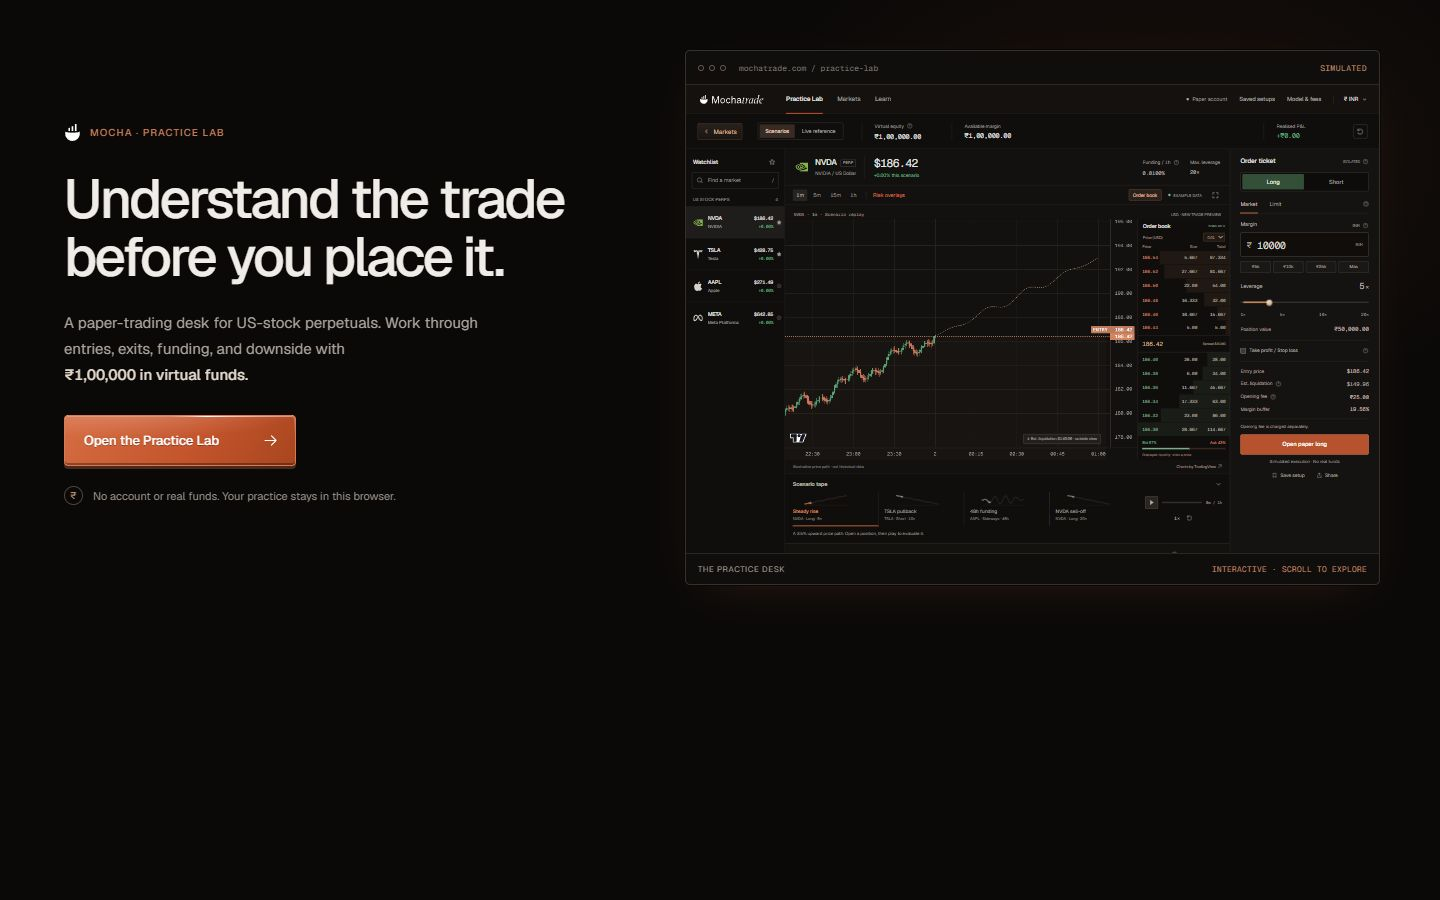
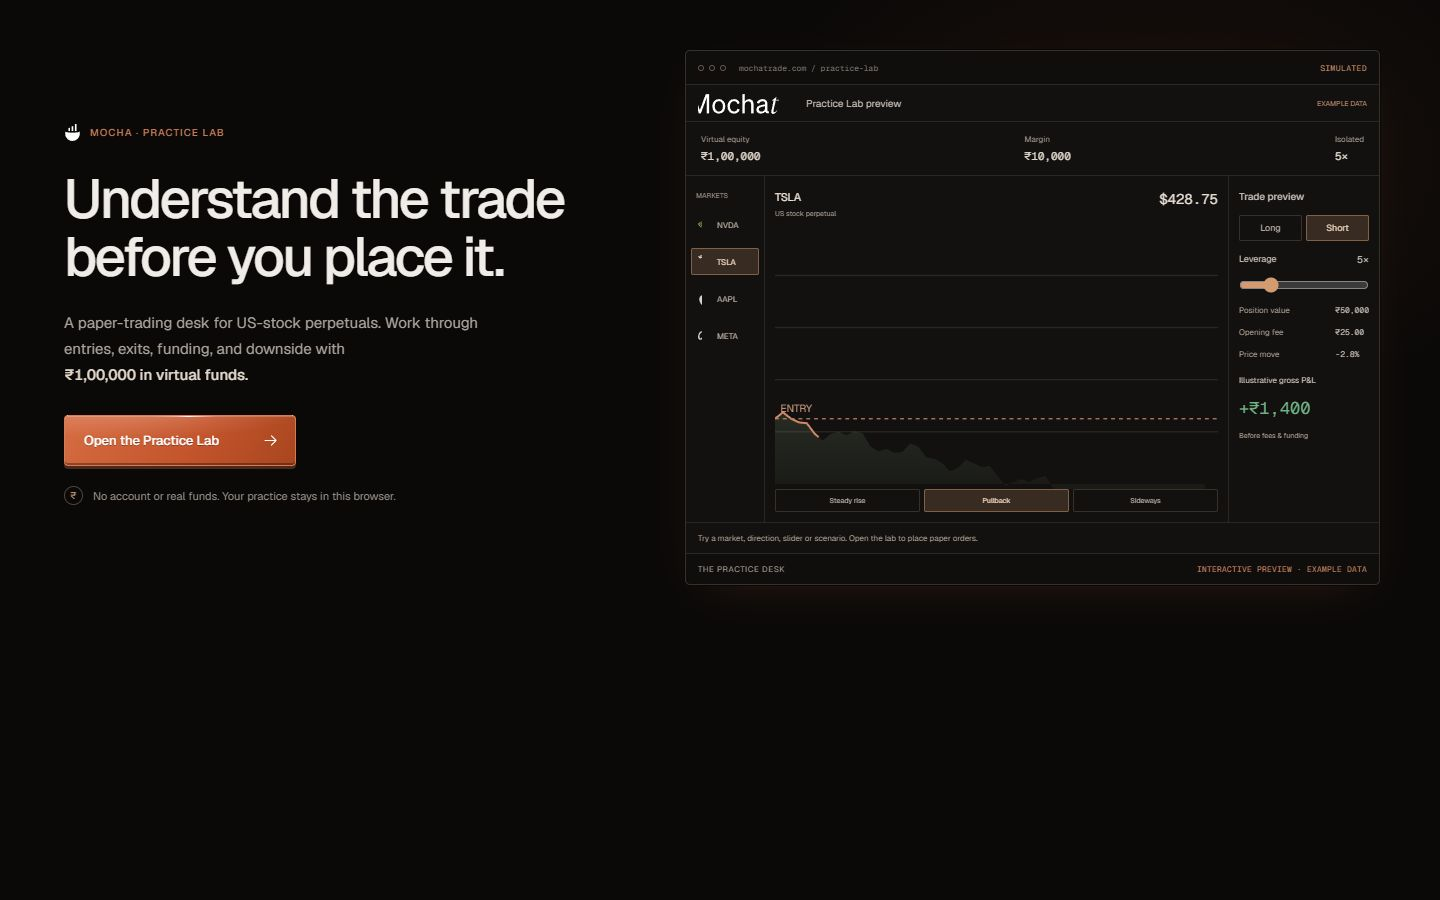
Replace embedded app with focused terminal preview

diff --git a/src/landing.css b/src/landing.css
@@ -218,15 +218,4 @@
   .welcome-launch svg { transition: none; }
 }
 
-.interactive-preview { padding:24px; height:100%; background:#13110f; }
-.preview-market {display:flex;gap:10px;align-items:center;font-size:16px}.preview-market img{width:24px;height:24px}.preview-market span{margin-left:auto;font-size:9px;color:#a59b91}.preview-quote{font:25px "Geist Mono";margin-top:16px}.preview-quote small{font-size:11px;color:#86b797}.interactive-preview>svg{width:100%;height:52%;margin:12px 0}.preview-price-path{stroke-dasharray:700;animation:preview-chart 7s linear infinite}.preview-trade{display:flex;gap:16px;align-items:center}.preview-trade .side-toggle{display:flex;gap:8px}.preview-trade .side-toggle button{padding:9px 22px;border-radius:3px}.preview-trade>.primary{margin-left:auto}.preview-feedback{color:#aaa096;font-size:10px;margin-top:15px}@keyframes preview-chart{from{stroke-dashoffset:700}to{stroke-dashoffset:0}}@media(prefers-reduced-motion:reduce){.preview-price-path{animation:none}}
-
-.terminal-preview-frame { position:absolute;left:0;top:0;border:0;transform-origin:top left;background:#0b0908; }
-.embedded-terminal { scrollbar-width:none; }
-.embedded-terminal::-webkit-scrollbar,.embedded-terminal *::-webkit-scrollbar { display:none; }
-.embedded-terminal button,.embedded-terminal button::before,.embedded-terminal button::after { animation:none!important;transition:none!important;transform:none!important;text-shadow:none!important;box-shadow:none!important; }
-.embedded-terminal button::before,.embedded-terminal button::after { content:none!important; }
-.embedded-terminal .primary { background:#b6532e!important;border:1px solid #c87954; }
-.embedded-terminal .side-toggle .long-active { background:#344f38!important; }
-.embedded-terminal .side-toggle .short-active { background:#633c30!important; }
-.embedded-terminal .mode-switch button.active {background:#382b23!important;}
+.mini-terminal{height:100%;display:flex;flex-direction:column;background:#13110f;color:#c7bfb7;font-size:10px}.mini-heading{height:37px;display:flex;align-items:center;gap:18px;padding:0 12px;border-bottom:1px solid #2c2723}.mini-heading img{width:90px}.mini-heading small{margin-left:auto;font-size:7px;color:#b48769}.mini-balance{display:flex;justify-content:space-between;padding:12px 15px;border-bottom:1px solid #2c2723;color:#9f958b;font-size:8px}.mini-balance b{display:block;color:#e1d7cd;font:11px 'Geist Mono';margin-top:5px}.mini-workspace{display:grid;grid-template-columns:79px minmax(0,1fr) 151px;flex:1;min-height:0}.mini-markets{padding:12px 5px;border-right:1px solid #2b2622}.mini-markets>span{font-size:7px;padding-left:5px;color:#998f85}.mini-terminal button{animation:none!important;transition:none!important;box-shadow:none!important;text-shadow:none!important;transform:none!important;border-radius:2px;color:#b7ada2;background:transparent;border:1px solid #39302a;padding:6px;cursor:pointer}.mini-terminal button::before,.mini-terminal button::after{content:none!important}.mini-terminal button:hover{background:#29221c}.mini-terminal button[aria-pressed=true]{background:#382b22;border-color:#806047;color:#eed5be}.mini-markets button{display:flex;align-items:center;gap:6px;width:100%;margin-top:10px;border-color:transparent;font-size:8px}.mini-markets button img{width:13px;height:13px}.mini-chart{padding:14px 10px 10px;min-width:0;display:flex;flex-direction:column}.mini-price{font-size:11px;color:#e7ded4}.mini-price b{float:right;font:14px 'Geist Mono'}.mini-price small{display:block;font-size:7px;color:#a3978c;margin-top:5px}.mini-chart svg{width:100%;flex:1;min-height:80px}.mini-scenarios{display:flex;gap:4px}.mini-scenarios button{flex:1;font-size:7px;padding:6px 2px}.mini-ticket{padding:14px 10px;border-left:1px solid #2b2622;display:flex;flex-direction:column;gap:12px}.mini-ticket>strong{font-size:10px}.mini-sides{display:flex;gap:4px}.mini-sides button{width:50%;font-size:9px}.mini-ticket label{font-size:9px}.mini-ticket label b{float:right;font:10px 'Geist Mono'}.mini-ticket input{display:block;width:100%;margin:12px 0 0;accent-color:#d49a70}.mini-ticket dl{display:grid;grid-template-columns:1fr auto;font-size:8px;row-gap:12px;margin:0}.mini-ticket dd{margin:0;font-family:'Geist Mono'}.mini-ticket dt{color:#a99b8e}.mini-result-label{font-size:8px;margin-top:4px}.mini-ticket>b{font:17px 'Geist Mono'}.mini-ticket>small{font-size:7px;color:#a99b8e}.mini-note{padding:10px 12px;border-top:1px solid #2b2622;color:#ab9b8d;font-size:8px}.mini-trace{stroke-dasharray:450;animation:mini-draw 1.2s ease-out both}@keyframes mini-draw{from{stroke-dashoffset:450}to{stroke-dashoffset:0}}@media(prefers-reduced-motion:reduce){.mini-trace{animation:none}}

diff --git a/src/TerminalPreview.tsx b/src/TerminalPreview.tsx
@@ -1,0 +1,17 @@
+import { useState } from "react";
+const markets = [{symbol:"NVDA",price:186.42},{symbol:"TSLA",price:428.75},{symbol:"AAPL",price:271.49},{symbol:"META",price:642.85}];
+export default function TerminalPreview(){
+ const [market,setMarket]=useState(0),[side,setSide]=useState(1),[leverage,setLeverage]=useState(5),[move,setMove]=useState(0);
+ const asset=markets[market], delta=[3.5,-2.8,0.4][move];
+ const points=Array.from({length:55},(_,i)=>({x:i*6.1,y:150-i*delta*0.54-Math.sin(i*0.8)*5-Math.sin(i*1.9)*3}));
+ const path=points.map((p,i)=>`${i?'L':'M'}${p.x},${p.y}`).join(' ');
+ return <div className="mini-terminal">
+  <div className="mini-heading"><img src="/brand/mocha-wordmark.svg" alt="Mochatrade"/><span>Practice Lab preview</span><small>EXAMPLE DATA</small></div>
+  <div className="mini-balance"><span>Virtual equity <b>₹1,00,000</b></span><span>Margin <b>₹10,000</b></span><span>Isolated <b>{leverage}×</b></span></div>
+  <div className="mini-workspace">
+   <div className="mini-markets"><span>MARKETS</span>{markets.map((a,i)=><button key={a.symbol} aria-pressed={market===i} onClick={()=>setMarket(i)}><img src={`/brand/${a.symbol.toLowerCase()}.svg`} alt=""/>{a.symbol}</button>)}</div>
+   <div className="mini-chart"><div className="mini-price">{asset.symbol}<b>${asset.price.toFixed(2)}</b><small>US stock perpetual</small></div><svg viewBox="0 0 340 200" role="img" aria-label={`${asset.symbol} illustrative price path`}><defs><linearGradient id="mini-area" x1="0" y1="0" x2="0" y2="1"><stop stopColor="#8cb893" stopOpacity=".16"/><stop offset="1" stopColor="#8cb893" stopOpacity="0"/></linearGradient></defs>{[40,80,120,160].map(y=><path key={y} d={`M0 ${y}H340`} stroke="#292623"/>)}<path d={`${path} L330 200H0Z`} fill="url(#mini-area)"/><path key={`${market}-${move}`} className="mini-trace" d={path} fill="none" stroke={delta>0?'#8cb893':'#d28a6c'} strokeWidth="1.5"/><path d="M0 150H340" stroke="#b37d58" strokeDasharray="3 3"/><text x="4" y="145" fill="#c69a7c" fontSize="8">ENTRY</text></svg><div className="mini-scenarios">{['Steady rise','Pullback','Sideways'].map((title,i)=><button key={title} aria-pressed={move===i} onClick={()=>setMove(i)}>{title}</button>)}</div></div>
+   <div className="mini-ticket"><strong>Trade preview</strong><div className="mini-sides"><button aria-pressed={side===1} onClick={()=>setSide(1)}>Long</button><button aria-pressed={side===-1} onClick={()=>setSide(-1)}>Short</button></div><label>Leverage <b>{leverage}×</b><input aria-label="Preview leverage" type="range" min="1" max="20" value={leverage} onChange={e=>setLeverage(+e.target.value)}/></label><dl><dt>Position value</dt><dd>₹{(10000*leverage).toLocaleString('en-IN')}</dd><dt>Opening fee</dt><dd>₹{(5*leverage).toFixed(2)}</dd><dt>Price move</dt><dd>{delta>0?'+':''}{delta}%</dd></dl><span className="mini-result-label">Illustrative gross P&amp;L</span><b className={delta*side>=0?'positive':'negative'}> {delta*side>=0?'+':'−'}₹{Math.abs(10000*leverage*delta/100).toLocaleString('en-IN')}</b><small>Before fees &amp; funding</small></div>
+  </div><div className="mini-note">Try a market, direction, slider or scenario. Open the lab to place paper orders.</div>
+ </div>
+}

diff --git a/src/Landing.tsx b/src/Landing.tsx
@@ -1,4 +1,5 @@
-import { useEffect, useRef, useState, type MouseEvent } from "react";
+import { type MouseEvent } from "react";
+import TerminalPreview from "./TerminalPreview";
 import { ArrowRight, Coffee } from "./icons";
 
 type LandingProps = {
@@ -6,9 +7,6 @@ type LandingProps = {
 };
 
 export default function Landing({ onOpen }: LandingProps) {
- const previewRef = useRef<HTMLDivElement>(null);
- const [scale,setScale] = useState(0.48);
- useEffect(() => { const element=previewRef.current; if(!element)return; const observer=new ResizeObserver(()=>setScale(element.clientWidth/1440)); observer.observe(element); return ()=>observer.disconnect(); },[]);
   return (
     <div className="welcome-page">
       <main className="welcome-main">
@@ -35,12 +33,10 @@ export default function Landing({ onOpen }: LandingProps) {
               <span className="preview-address">mochatrade.com / practice-lab</span>
               <span className="preview-mode">SIMULATED</span>
             </div>
-            <div className="preview-image-wrap terminal-preview-wrap" ref={previewRef}>
-              <iframe title="Interactive Practice Lab terminal — separate demo wallet" src="/terminal?embed=1" className="terminal-preview-frame" style={{width:1440,height:1440/1.48,transform:`scale(${scale})`}} />
-            </div>
+            <div className="preview-image-wrap"><TerminalPreview /></div>
             <figcaption>
               <span>THE PRACTICE DESK</span>
-              <span>INTERACTIVE · SCROLL TO EXPLORE</span>
+              <span>INTERACTIVE PREVIEW · EXAMPLE DATA</span>
             </figcaption>
           </figure>
         </section>

diff --git a/src/store.ts b/src/store.ts
@@ -67,10 +67,8 @@ const persistedSchema = z.object({
   saved: z.array(z.string()).max(12),
 });
 export let storageRecovered = false;
-const embedded = new URLSearchParams(location.search).get("embed") === "1";
 const storage = {
   getItem: (key: string) => {
-    if (embedded) return null;
     try {
       const raw = localStorage.getItem(key);
       if (raw) JSON.parse(raw);
@@ -84,7 +82,6 @@ const storage = {
     }
   },
   setItem: (key: string, value: string) => {
-    if (embedded) return;
     try {
       localStorage.setItem(key, value);
     } catch {
@@ -92,7 +89,6 @@ const storage = {
     }
   },
   removeItem: (key: string) => {
-    if (embedded) return;
     try {
       localStorage.removeItem(key);
     } catch {}

diff --git a/src/main.tsx b/src/main.tsx
@@ -9,7 +9,6 @@ import Landing from "./Landing";
 import { ErrorBoundary } from "./ErrorBoundary";
 import "./style.css";
 import "./landing.css";
-if (new URLSearchParams(location.search).get("embed") === "1") document.documentElement.classList.add("embedded-terminal");
 const client = new QueryClient({
   defaultOptions: { queries: { refetchOnWindowFocus: false } },
 });
